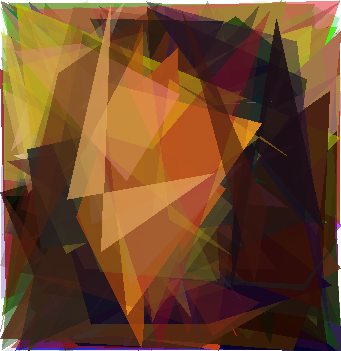
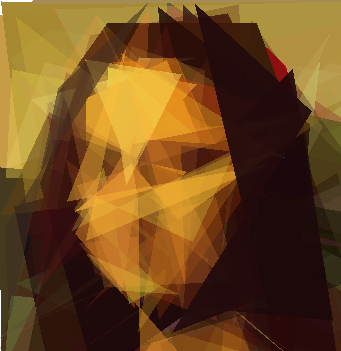
20201231

diff --git a/main.py b/main.py
@@ -8,7 +8,7 @@ import time
 if __name__ == '__main__':
     # 初始化
     triangle_number = 200#三角形数目
-    size = (341, 351)#图片大小
+    size = (341, 351)#图片大小,与figure一致
     population = 4#种群数量
     target = np.array(misc.imread(r"figure.png",
                                   mode="RGB"),
@@ -61,11 +61,11 @@ if __name__ == '__main__':
             populations.append(tools.Variation(tools.Hybridization(father[d][1],
                                                                    mother[d][1]),
                                                triangle_number,
-                                               'medium', 95,size))  # 百分之x几率变异
+                                               'medium', 60,size))  # 百分之x几率变异
             populations.append(tools.Variation(tools.Hybridization(father[d][1],
                                                                    mother[d][1]),
                                                triangle_number,
-                                               'medium', 95,size))  # 百分之x几率变异
+                                               'medium', 60,size))  # 百分之x几率变异
         # 每20轮备份一次
         if a % 20 == 0:
             print("已备份。")
